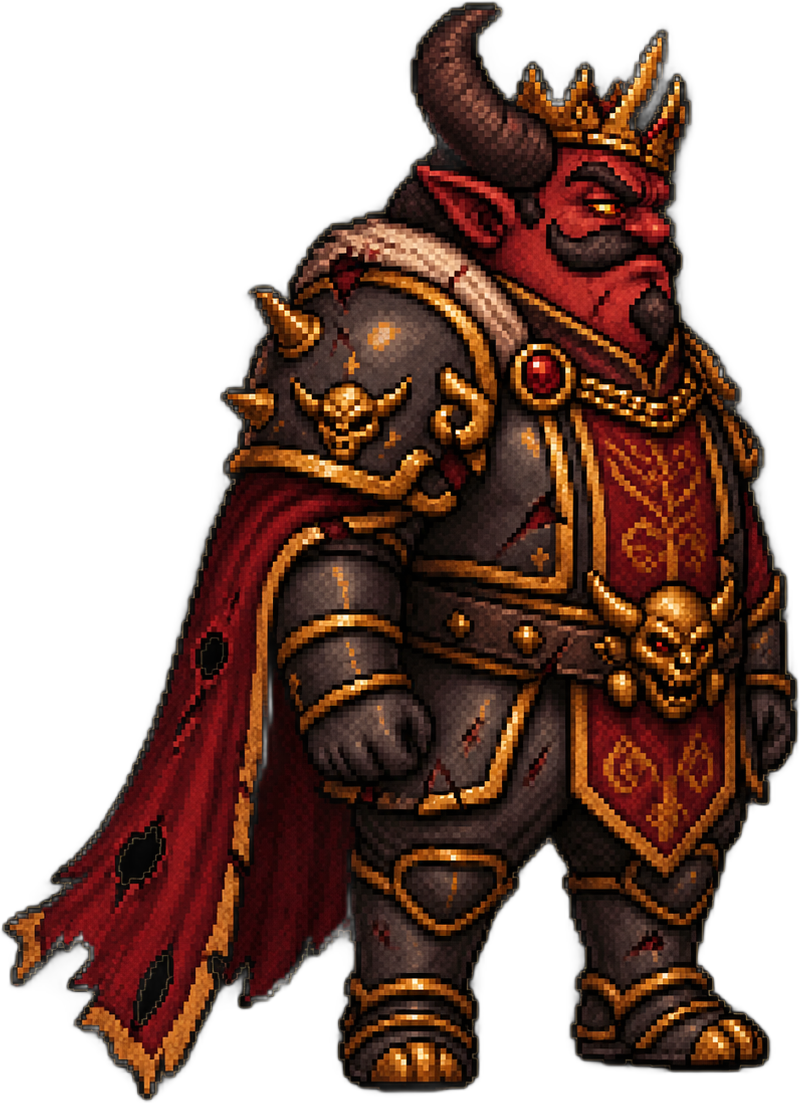
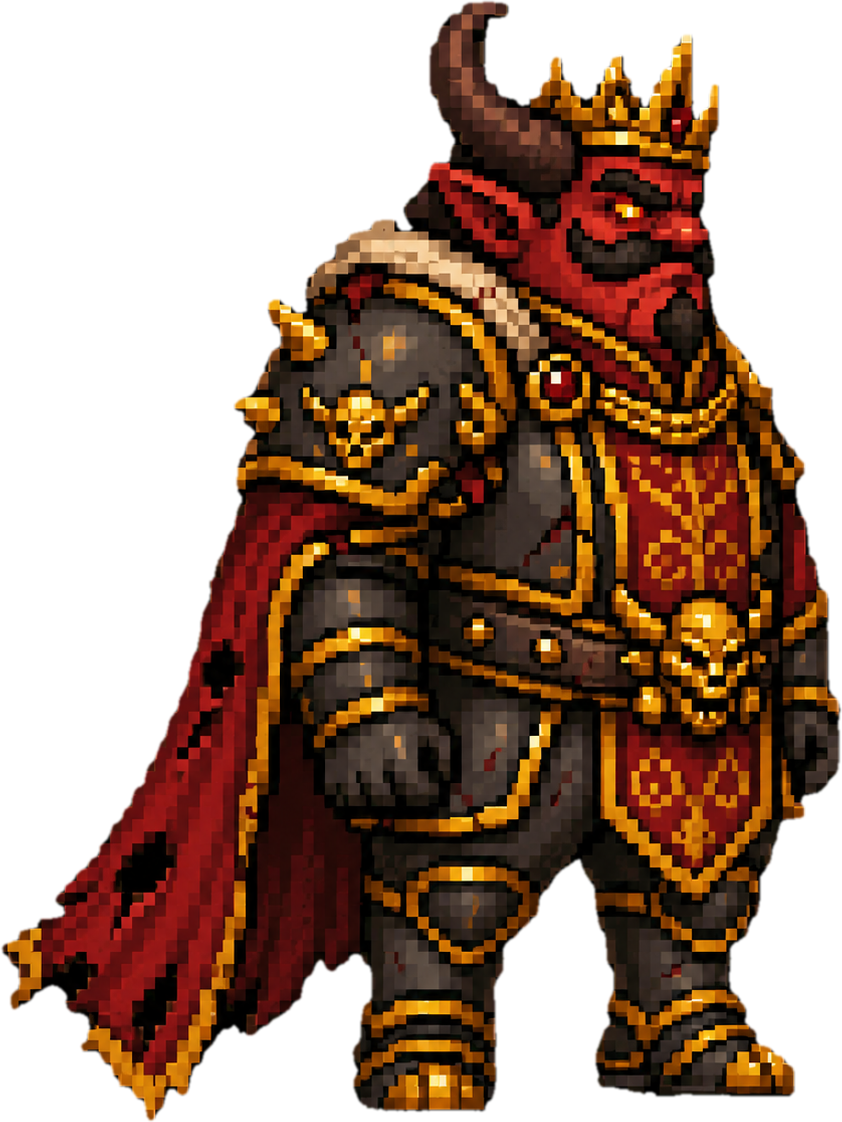
Refresh demon king player sprite

diff --git a/docs/use-cases/UC-002-07-keep-player-visual-and-collider-aligned.md b/docs/use-cases/UC-002-07-keep-player-visual-and-collider-aligned.md
@@ -64,7 +64,7 @@
 
 - `PlayerVisual`에 `ExecuteAlways`를 적용하여 Edit Mode와 Play Mode 모두에서 정렬을 유지한다.
 - `Assets/IncomingImages/Player/stand/demonking_right.png`를 Player 표시 스프라이트로 사용하도록 `Assets/Prefabs/Player.prefab`을 갱신했다.
-- 마왕 캐릭터 스프라이트의 약한 알파 여백을 잘라 `800x1103` 이미지로 정리하고, pixels per unit을 `1103`으로 설정해 세로 기준 1유닛 스프라이트로 사용한다.
+- 마왕 캐릭터 스프라이트는 현재 `842x1122` PNG를 사용하며, pixels per unit을 `1122`로 설정해 세로 기준 1유닛 스프라이트로 사용한다.
 - `PlayerVisual.tintByState` 옵션을 추가했고, Player prefab에서는 이 값을 꺼서 캐릭터 이미지 원본 색상을 유지한다.
 - `PlayerScenePositionHandle`이 Scene View에 Player 루트 Transform을 이동하는 드래그 핸들을 표시한다.
 - `PlayerVisual`은 자식 `Visual`을 기준으로 Player 루트 위치를 계속 이동시키지 않고, `Visual.localPosition`을 현재 크기, 오프셋, 방향에 맞는 값으로 직접 계산해 Scene View 드래그 중 위치가 증폭되는 문제를 방지한다.
